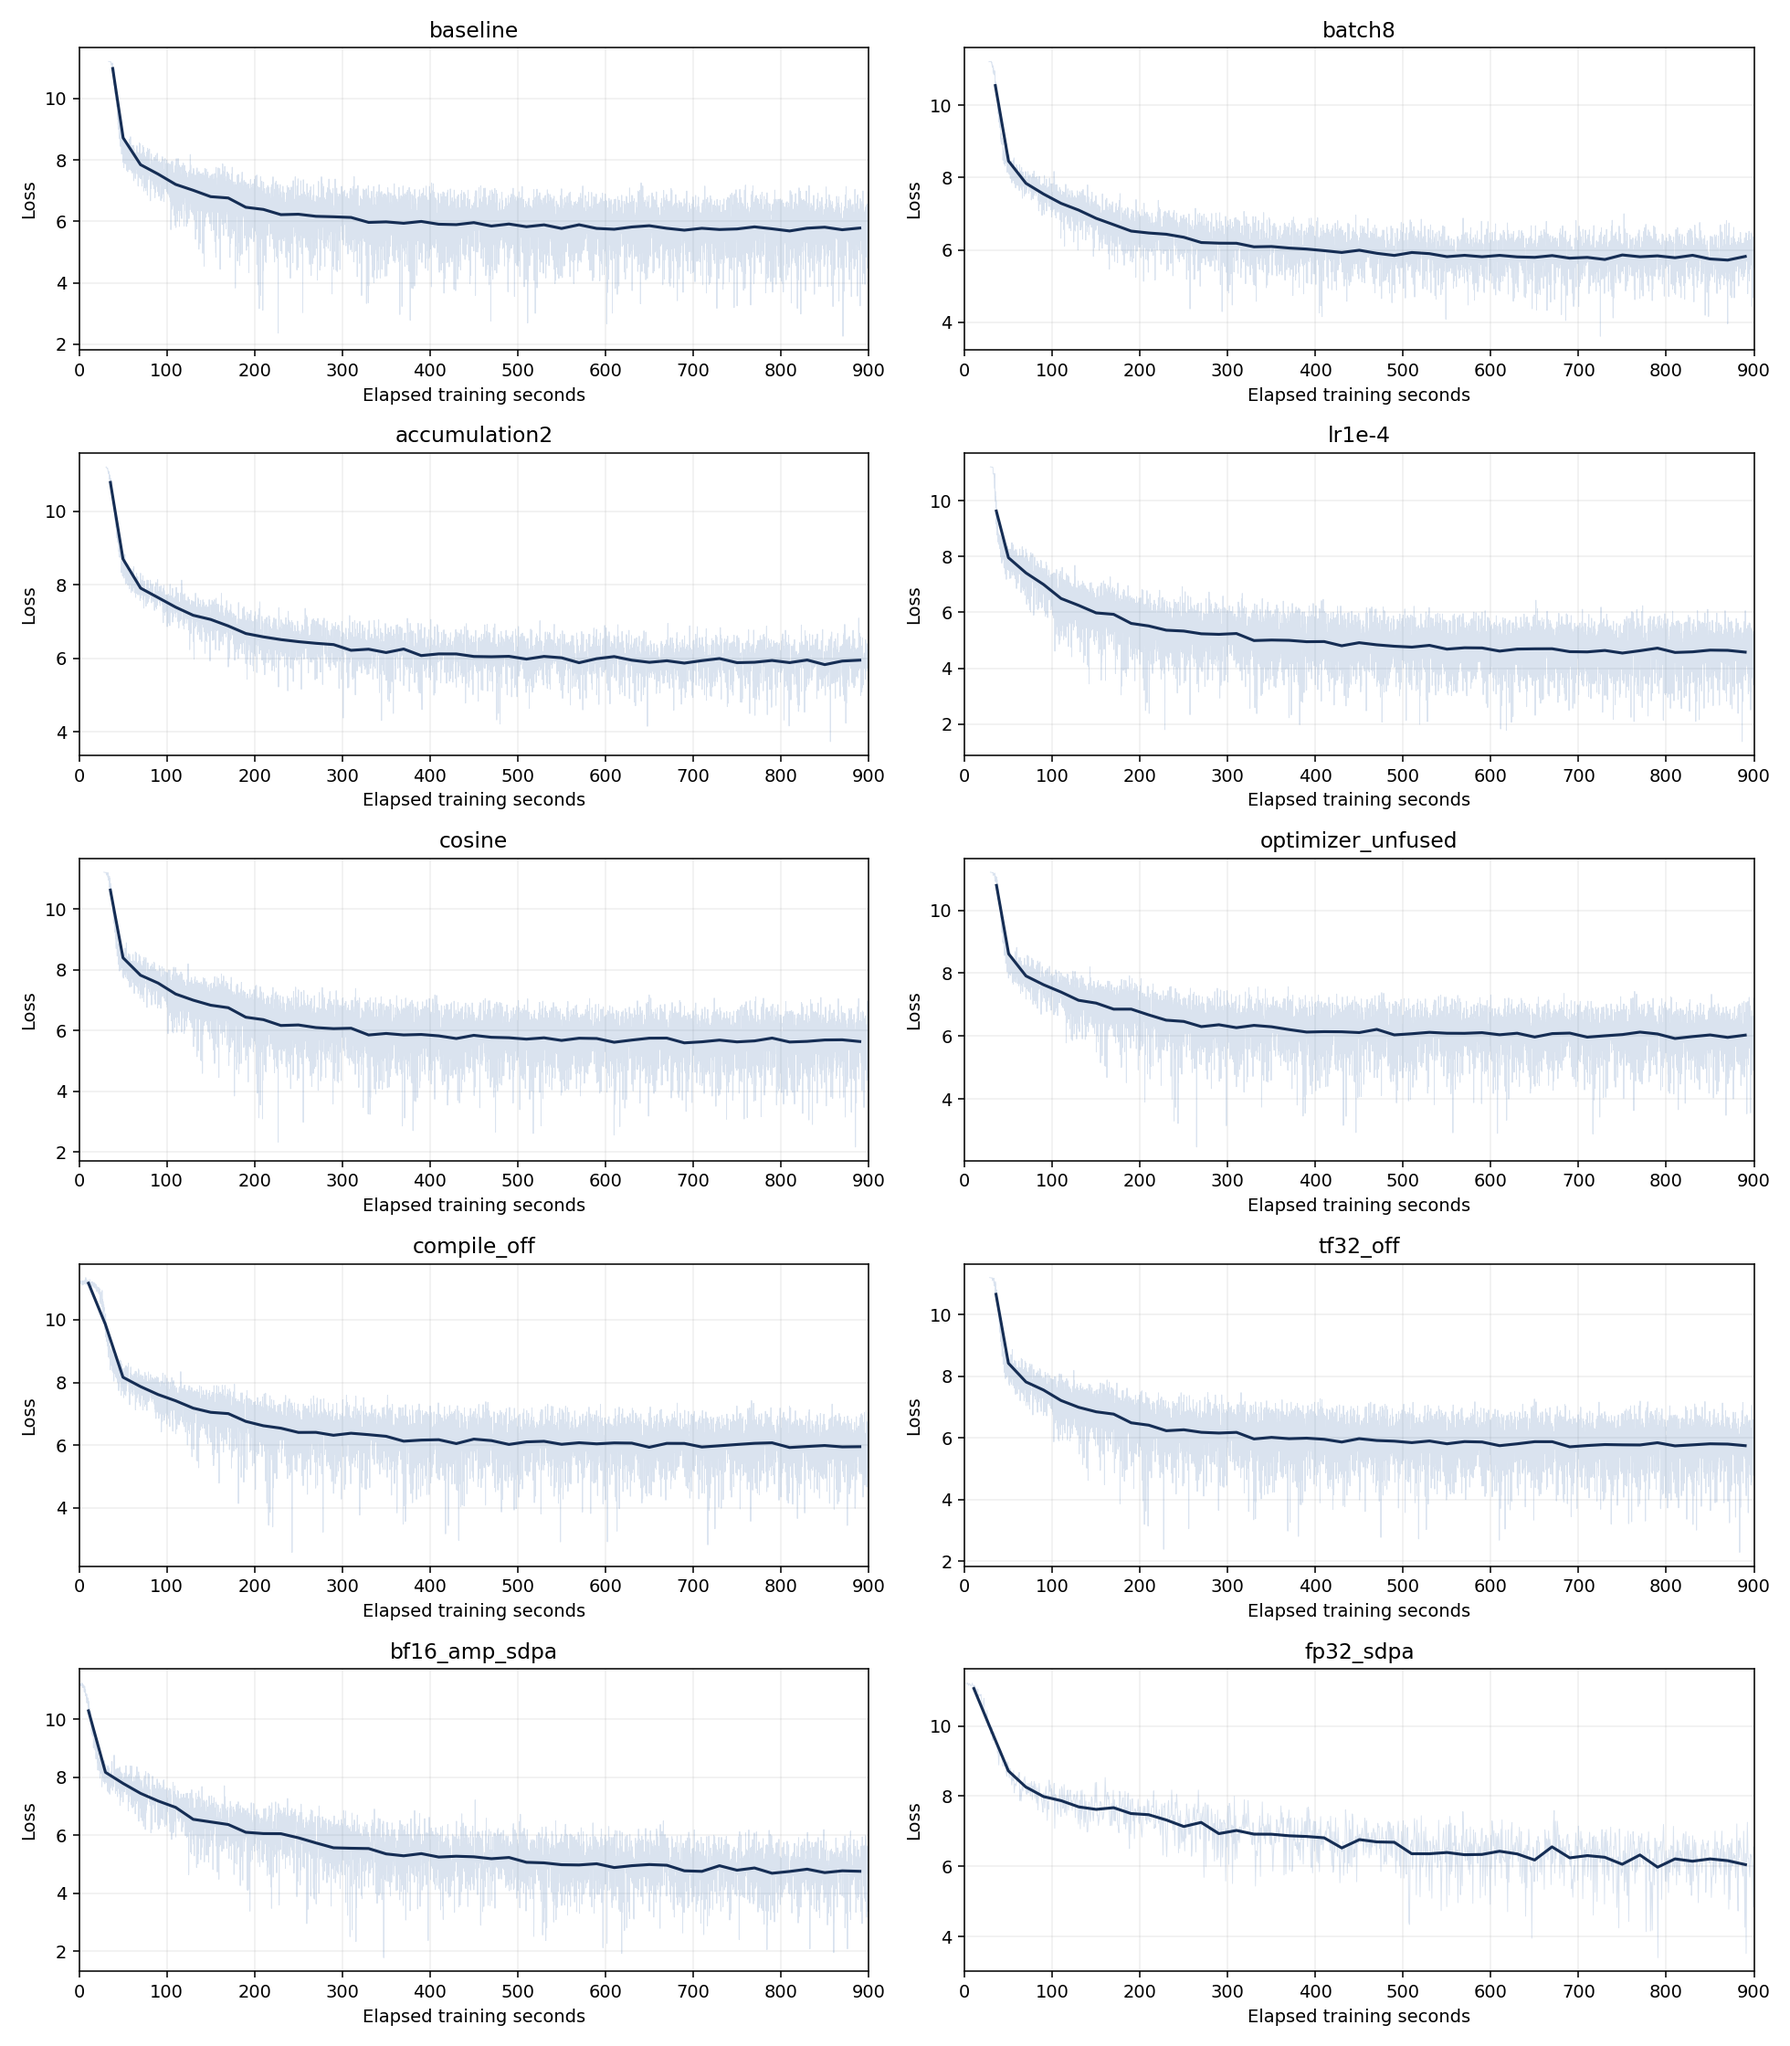
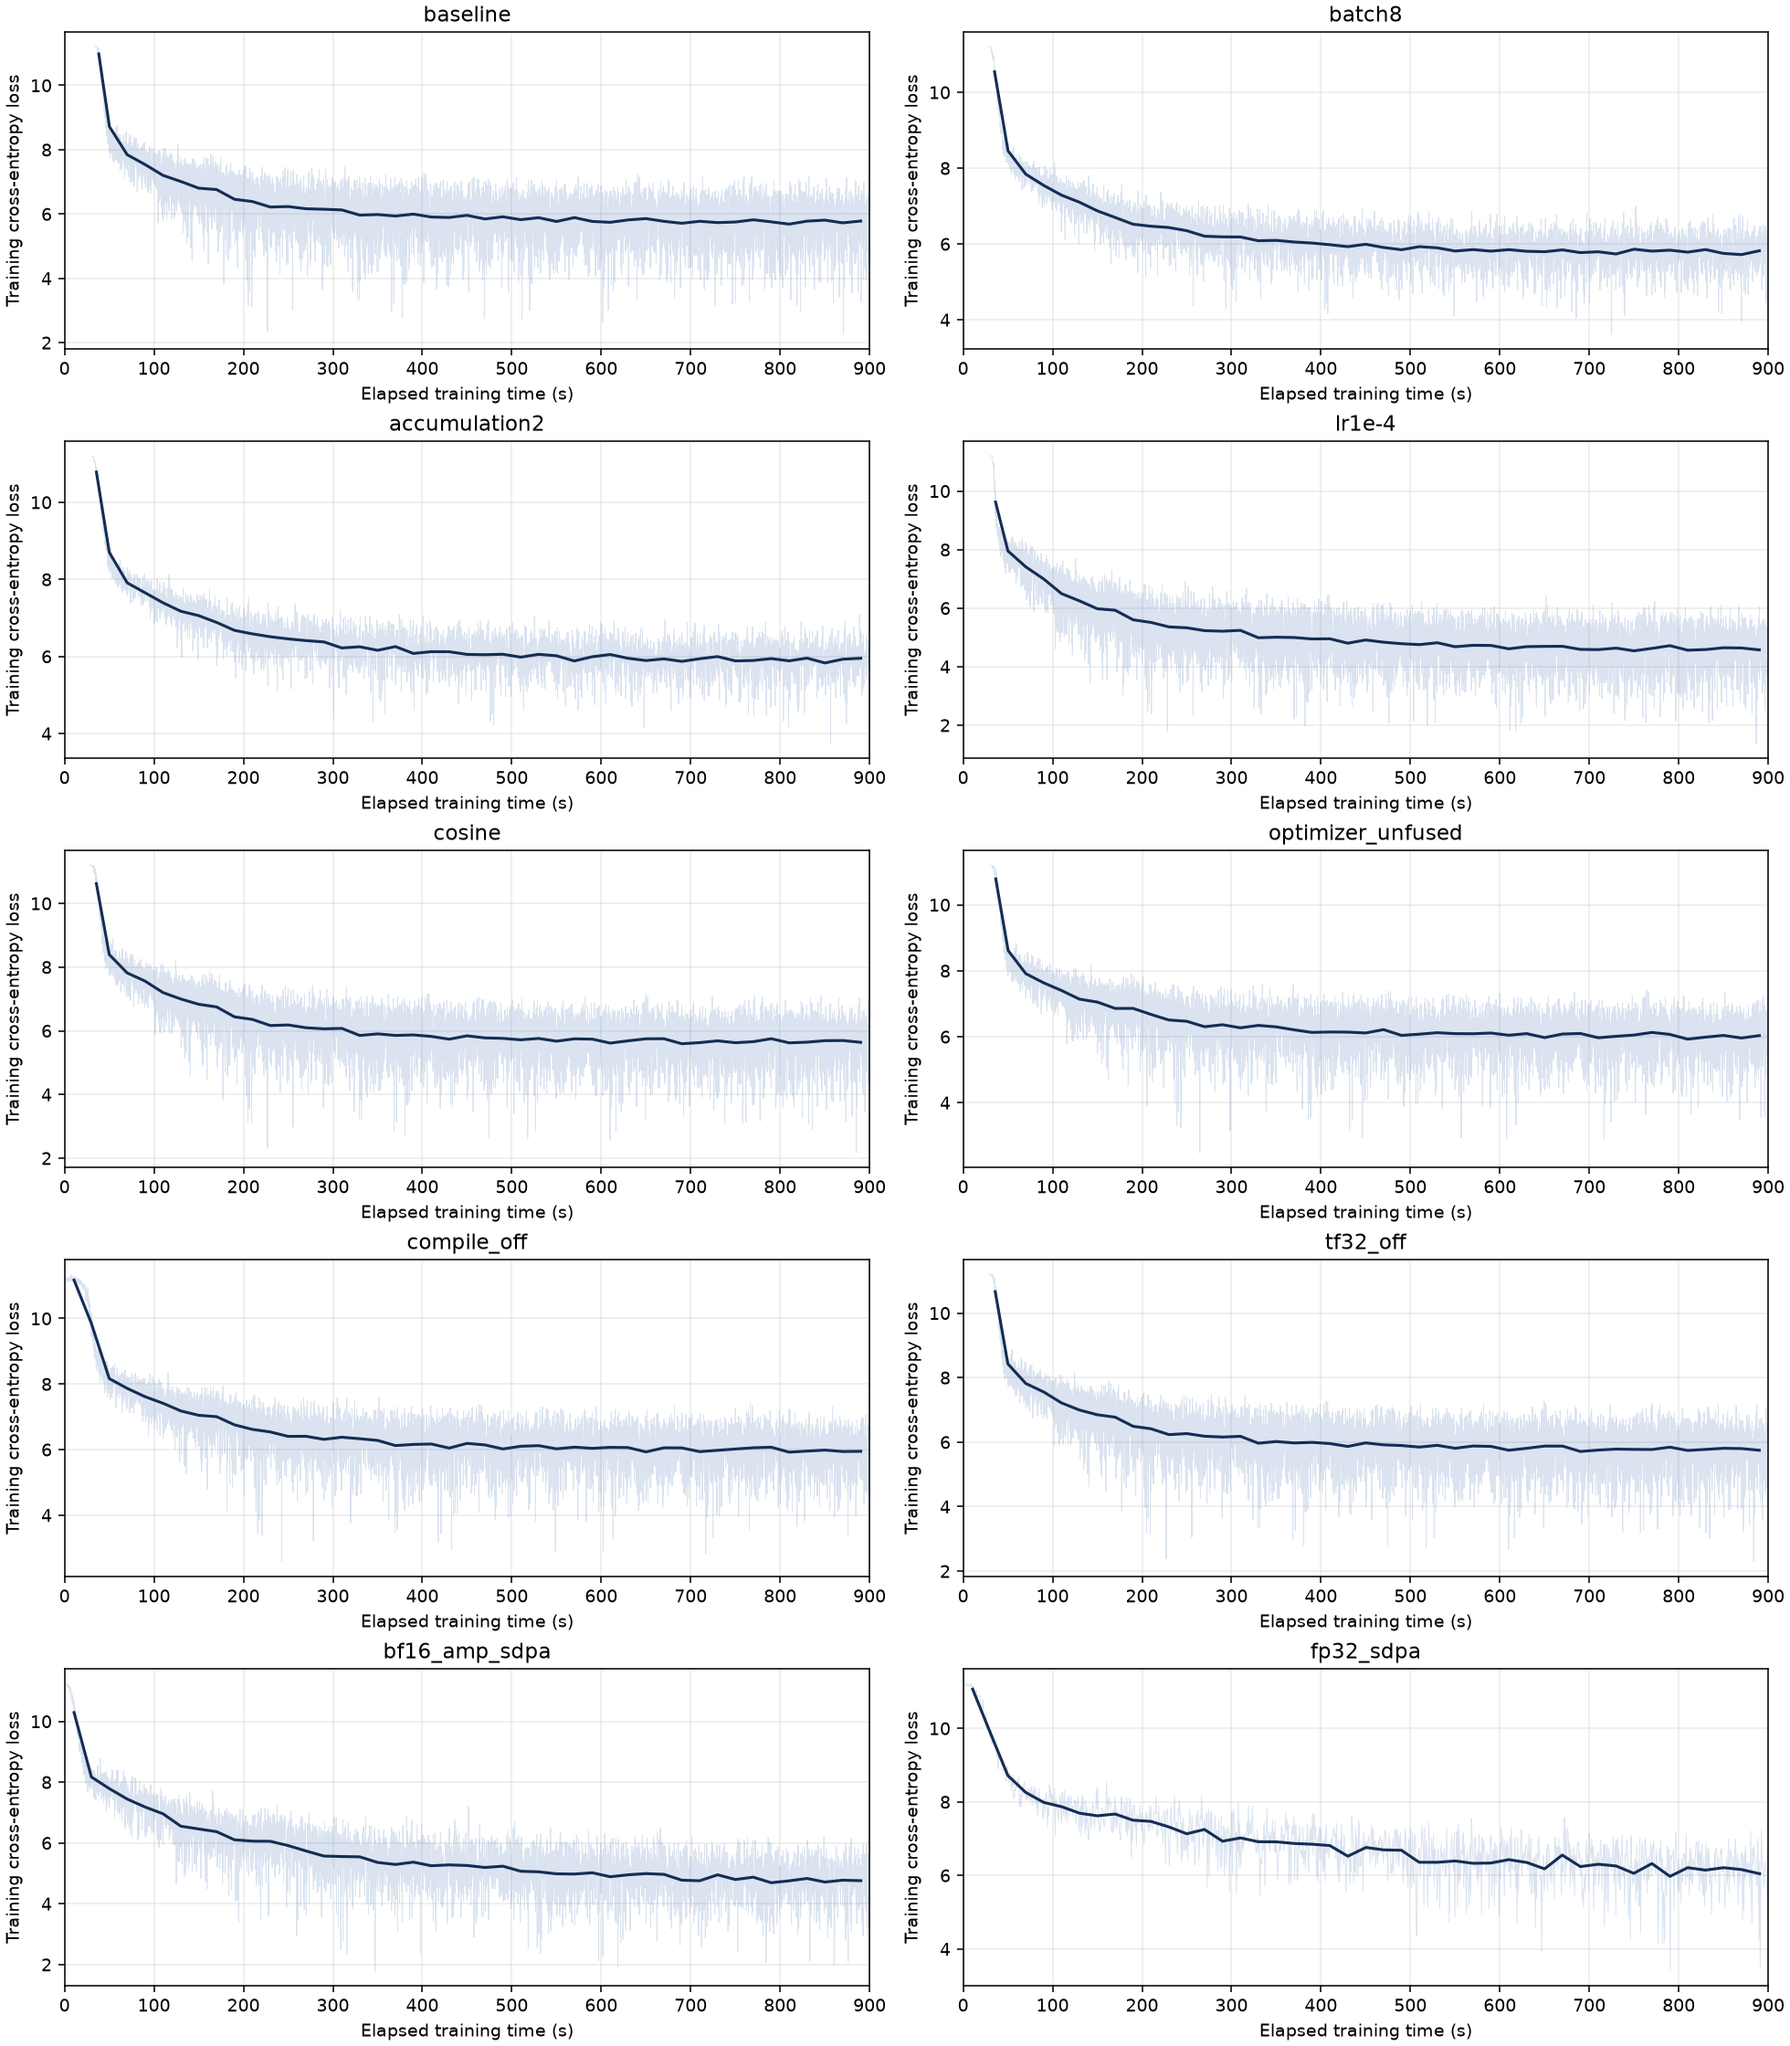
Keep training-loss curves and add reproducible plotting script

diff --git a/hw1/plot_losses.py b/hw1/plot_losses.py
@@ -1,0 +1,65 @@
+"""Build training-loss plots: python hw1/plot_losses.py (requires matplotlib)."""
+import csv
+from pathlib import Path
+
+import matplotlib
+matplotlib.use('Agg')
+import matplotlib.pyplot as plt
+
+ROOT = Path(__file__).resolve().parent / 'training'
+PRIMARY = ['baseline', 'batch8', 'accumulation2', 'lr1e-4', 'cosine',
+           'optimizer_unfused', 'compile_off', 'tf32_off']
+PRECISION = ['bf16_amp_sdpa', 'fp32_sdpa']
+
+
+def load(name):
+    with (ROOT / 'losses' / f'{name}.csv').open() as source:
+        return [(float(row['elapsed_seconds']), float(row['loss']))
+                for row in csv.DictReader(source)]
+
+
+def smooth(rows):
+    """Mean loss and time per 20-second bin; include final-step overshoot."""
+    bins = {}
+    for seconds, loss in rows:
+        bins.setdefault(min(44, int(seconds // 20)), []).append((seconds, loss))
+    return [(sum(t for t, _ in values) / len(values),
+             sum(loss for _, loss in values) / len(values))
+            for _, values in sorted(bins.items())]
+
+
+def style(ax, title):
+    ax.set(title=title, xlabel='Elapsed training time (s)',
+           ylabel='Training cross-entropy loss', xlim=(0, 900))
+    ax.grid(alpha=0.25)
+
+
+def comparison(names, filename, title):
+    fig, ax = plt.subplots(figsize=(10, 6), layout='constrained')
+    for name in names:
+        points = smooth(load(name))
+        ax.plot(*zip(*points), label=name, linewidth=1.8)
+    style(ax, title)
+    ax.legend(fontsize=9, ncol=2)
+    fig.savefig(ROOT / filename, dpi=180)
+    plt.close(fig)
+
+
+def main():
+    comparison(PRIMARY, 'comparison_plots.png',
+               'Primary experiments: training loss (20-second means)')
+    comparison(PRECISION, 'precision_comparison.png',
+               'BF16 autocast vs FP32: training loss (20-second means)')
+    names = PRIMARY + PRECISION
+    fig, axes = plt.subplots(5, 2, figsize=(14, 16), layout='constrained')
+    for ax, name in zip(axes.flat, names):
+        rows = load(name)
+        ax.plot(*zip(*rows), alpha=0.2, linewidth=0.5, color='#4775b3')
+        ax.plot(*zip(*smooth(rows)), linewidth=1.6, color='#152d54')
+        style(ax, name)
+    fig.savefig(ROOT / 'individual_loss_curves.png', dpi=140)
+    plt.close(fig)
+
+
+if __name__ == '__main__':
+    main()

diff --git a/hw1/EXPERIMENTS.md b/hw1/EXPERIMENTS.md
@@ -37,6 +37,8 @@ Batch size и accumulation проверяют влияние размера эф
 [Основное сравнение](training/comparison_plots.png) · [BF16/FP32](training/precision_comparison.png) · [Все кривые обучения](training/individual_loss_curves.png).
 Исходные значения train loss — в [training/losses](training/losses), итоговые метрики — в [training/results.csv](training/results.csv). На сравнительных графиках train loss усреднён по интервалам 20 секунд; validation измерен только в конце.
 
+Построение графиков: [plot_losses.py](plot_losses.py). Из корня репозитория: `python -m pip install matplotlib`, затем `python hw1/plot_losses.py`. Скрипт читает сохранённые CSV; повторное обучение не требуется.
+
 ## Генерация лучшей модели
 
 Выбран `lr1e-4` с минимальным eval loss **5.3145**. В [generations.json](generations.json) сохранены три полных примера: «Москва — это», «Искусственный интеллект — это», «В начале XX века». Параметры: sampling, temperature 0.8, top-p 0.95, до 100 новых токенов, seed 42. Ниже — дословные начала двух генераций, без исправления ошибок модели.
